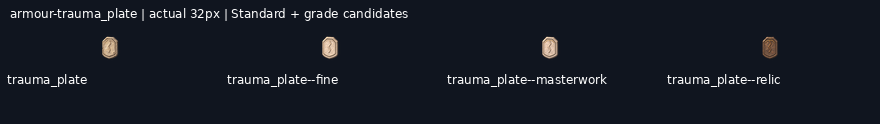
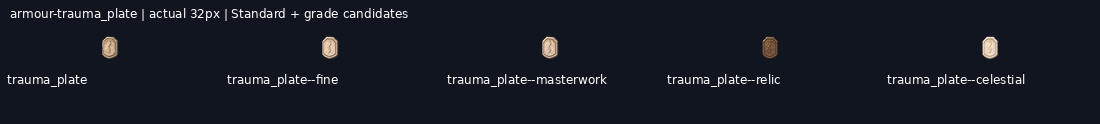
art: draw armour-trauma_plate--celestial grade candidate

diff --git a/art/_archive/gear/2026-11-19-kept-blade-grades/HANDOFF.md b/art/_archive/gear/2026-11-19-kept-blade-grades/HANDOFF.md
@@ -1,17 +1,17 @@
 # Gear grade candidates
 
-**88/120 grade candidates delivered** on `art/2026-11-19-kept-blade-grades`. Shared mailbox: https://github.com/leonpentastorm/Project-Heaven-Cry/issues/3 . See claim.json for this lane’s current Standards. Released overlapping blades reuse12 peer candidates, with3 local alternatives archived.
+**89/120 grade candidates delivered** on `art/2026-11-19-kept-blade-grades`. Shared mailbox: https://github.com/leonpentastorm/Project-Heaven-Cry/issues/3 . See claim.json for this lane’s current Standards. Released overlapping blades reuse12 peer candidates, with3 local alternatives archived.
 
 Leon requested continuous candidate production; proof approval is not fabricated. All candidates remain review-candidate, production_approved:false, implementation_ready:false, with outline.review_required:true. Exact outline is measured, never asserted unless the masks match. Per-image registration is uniform scaling/translation only, without warp, silhouette masks, filled pixels or code-drawn substitutes. The generated native remains untouched.
 
 Each image is generated, shown, technically exported, validated, committed and pushed before the next. Sources, versioned masters, exact prompts/reference hashes,256/128/64/32 exports and grade comparison sheets are retained. Standards and earlier deliveries are unchanged. This sparse checkout cannot validate omitted historical files; full-library validation/build is an integration check on a full checkout.
 
-Remaining: weapon-ork_machete--masterwork, weapon-ork_machete--relic, weapon-ork_machete--celestial, weapon-war_axe--fine, weapon-war_axe--masterwork, weapon-war_axe--relic, weapon-war_axe--celestial, armour-trauma_plate--celestial, armour-runner_trousers--fine, armour-runner_trousers--masterwork, armour-runner_trousers--relic, armour-runner_trousers--celestial, armour-armoured_greaves--fine, armour-armoured_greaves--masterwork, armour-armoured_greaves--relic, armour-armoured_greaves--celestial, armour-work_gloves--fine, armour-work_gloves--masterwork, armour-work_gloves--relic, armour-work_gloves--celestial, armour-combat_gloves--fine, armour-combat_gloves--masterwork, armour-combat_gloves--relic, armour-combat_gloves--celestial, armour-field_boots--fine, armour-field_boots--masterwork, armour-field_boots--relic, armour-field_boots--celestial, armour-heavy_boots--fine, armour-heavy_boots--masterwork, armour-heavy_boots--relic, armour-heavy_boots--celestial.
+Remaining: weapon-ork_machete--masterwork, weapon-ork_machete--relic, weapon-ork_machete--celestial, weapon-war_axe--fine, weapon-war_axe--masterwork, weapon-war_axe--relic, weapon-war_axe--celestial, armour-runner_trousers--fine, armour-runner_trousers--masterwork, armour-runner_trousers--relic, armour-runner_trousers--celestial, armour-armoured_greaves--fine, armour-armoured_greaves--masterwork, armour-armoured_greaves--relic, armour-armoured_greaves--celestial, armour-work_gloves--fine, armour-work_gloves--masterwork, armour-work_gloves--relic, armour-work_gloves--celestial, armour-combat_gloves--fine, armour-combat_gloves--masterwork, armour-combat_gloves--relic, armour-combat_gloves--celestial, armour-field_boots--fine, armour-field_boots--masterwork, armour-field_boots--relic, armour-field_boots--celestial, armour-heavy_boots--fine, armour-heavy_boots--masterwork, armour-heavy_boots--relic, armour-heavy_boots--celestial.
 
 Service-rejected requests (do not repeatedly resubmit): weapon-ork_machete--masterwork, weapon-war_axe--fine.
 
 Waiting on rejected prerequisites: weapon-ork_machete--celestial, weapon-ork_machete--relic, weapon-war_axe--celestial, weapon-war_axe--masterwork, weapon-war_axe--relic.
 
-Ready independent next steps, in queue order: armour-trauma_plate--celestial, armour-runner_trousers--fine, armour-armoured_greaves--fine, armour-work_gloves--fine, armour-combat_gloves--fine, armour-field_boots--fine, armour-heavy_boots--fine. Other pending grades follow their preceding grade.
+Ready independent next steps, in queue order: armour-runner_trousers--fine, armour-armoured_greaves--fine, armour-work_gloves--fine, armour-combat_gloves--fine, armour-field_boots--fine, armour-heavy_boots--fine. Other pending grades follow their preceding grade.
 
 Runtime handoff: implementation_ready:false records review status but does not gate the web asset builder. The builder emits grade asset keys; the current UI gear resolver still needs grade-aware selection. Do not claim that runtime grade selection is implemented by these art deliveries.
